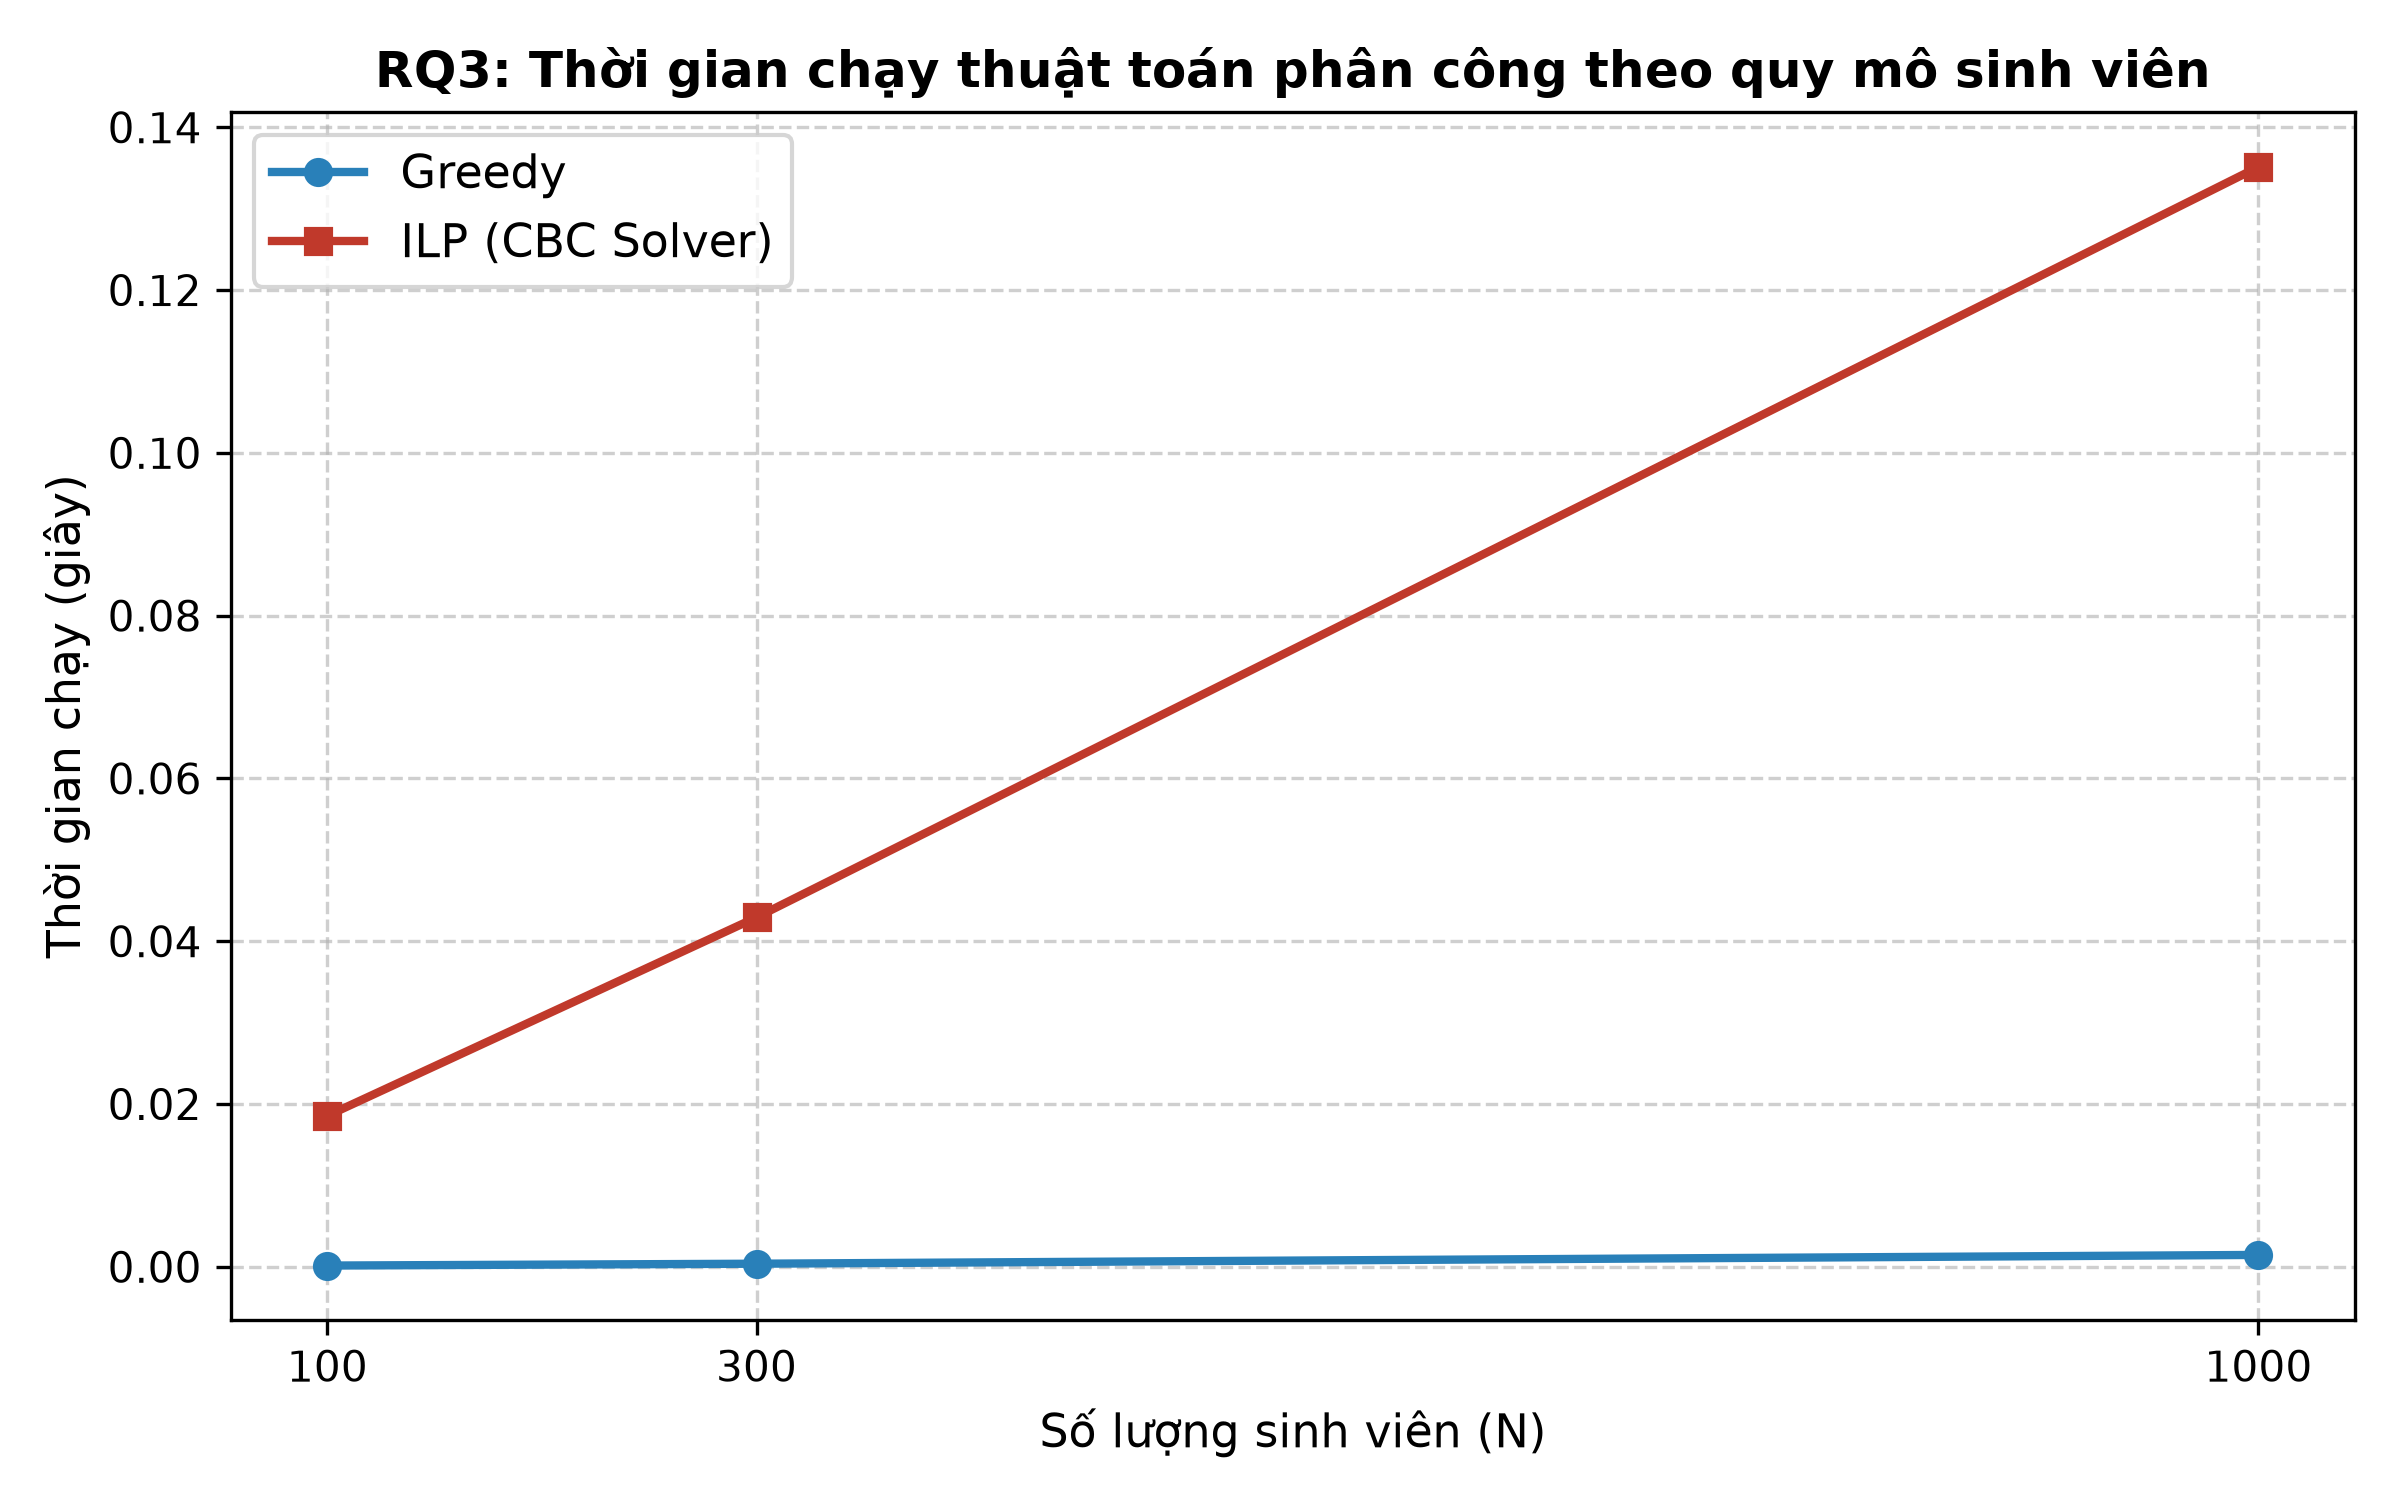
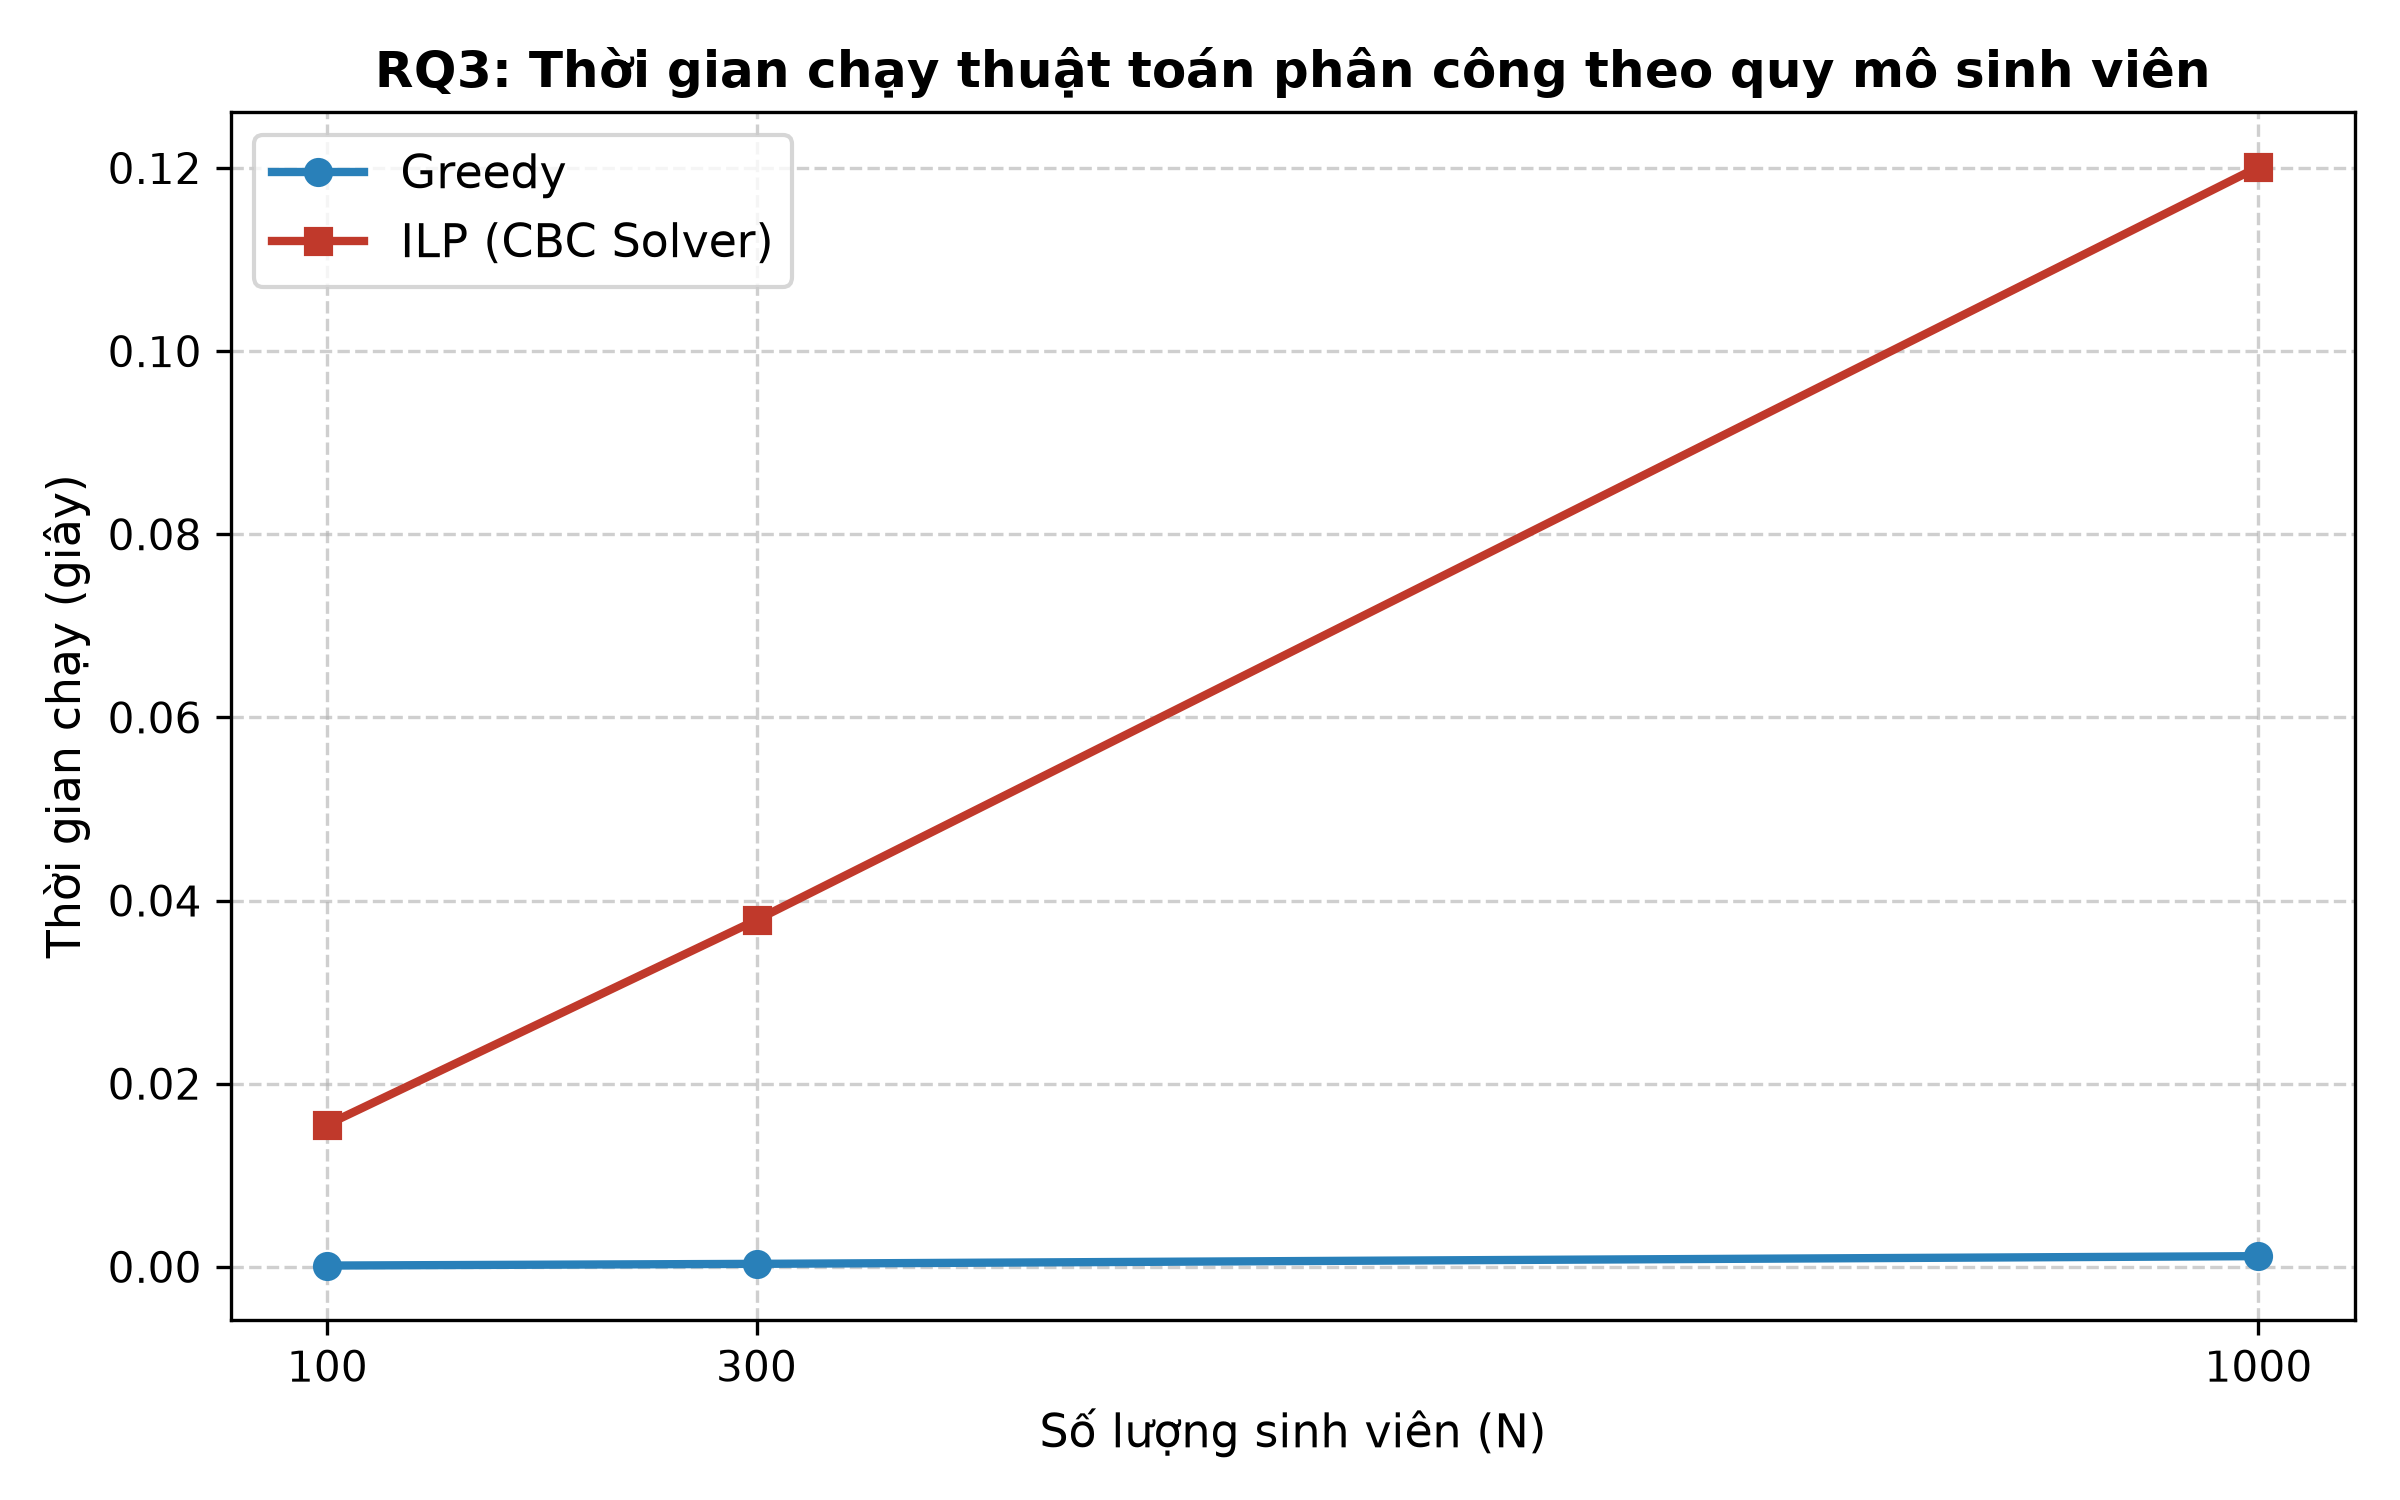
experiments: bảng RQ1 sinh từ CSV, ghi rõ độ phủ M5; RQ2 chờ đo thật

diff --git a/experiments/README.md b/experiments/README.md
@@ -47,10 +47,20 @@ python -m experiments.rq1_ablation
 
 **Bảng kết quả thực nghiệm:**
 <!-- BANG:rq1 -->
-(chạy python -m experiments.make_report)
+| Cấu hình | Hit@5 | MRR | NDCG@5 |
+| --- | --- | --- | --- |
+| Đủ M1–M5 | 0.883 | 0.827 | 0.688 |
+| Bỏ M1 (Kỹ năng) | 0.702 | 0.507 | 0.405 |
+| Bỏ M2 (Học lực) | 0.883 | 0.830 | 0.689 |
+| Bỏ M3 (Lĩnh vực) | 0.830 | 0.777 | 0.658 |
+| Bỏ M4 (Embedding) | 0.872 | 0.847 | 0.715 |
+| Bỏ M5 (LLM) | 0.883 | 0.838 | 0.702 |
+| Trọng số đều | 0.872 | 0.818 | 0.667 |
+| TF-IDF only | 0.575 | 0.398 | 0.256 |
+| Embedding only | 0.447 | 0.301 | 0.175 |
 <!-- /BANG:rq1 -->
 
-<!-- PHU:rq1 --><!-- /PHU:rq1 -->
+<!-- PHU:rq1 -->Độ phủ M5: 55/100 SV có điểm M5 thật (chạy 05/10/2026, Groq hết hạn mức ngày); đang chấm bổ sung<!-- /PHU:rq1 -->
 
 Kết quả lưu tại: `experiments/results/rq1_ablation.csv` và `experiments/results/rq1_ablation.png`.
 
@@ -84,7 +94,7 @@ python -m experiments.rq2_llm_stability --students 30 --topics-per-student 3
 
 **Bảng tổng hợp độ ổn định LLM:**
 <!-- BANG:rq2 -->
-(chạy python -m experiments.make_report)
+_Chưa có số liệu: đang đo lại bằng API thật (Groq + Ollama) ngày 06/10/2026 sau khi hạn mức Groq hồi._
 <!-- /BANG:rq2 -->
 
 > Mọi dòng trong bảng RQ2 là lượt gọi API thật. Không có số liệu mô phỏng: provider nào thiếu khoá thì bị bỏ qua, không thay bằng số giả.
@@ -125,7 +135,20 @@ python -m experiments.rq3_allocation
 
 **Bảng so sánh hiệu năng và chất lượng:**
 <!-- BANG:rq3 -->
-(chạy python -m experiments.make_report)
+| N | Cấu hình | Tỷ lệ xếp | Đạt NV1 | Thứ hạng NV TB | Điểm phù hợp TB | P10 điểm | Vi phạm | Thời gian (s) |
+| --- | --- | --- | --- | --- | --- | --- | --- | --- |
+| 100 | Greedy | 50.0% | 14.0% | 1.96 | 66.5 | 44.5 | 0 | 0.0001 |
+| 100 | ILP (Bộ 1 (Ưu tiên điểm phù hợp)) | 51.0% | 28.0% | 1.63 | 72.7 | 52.0 | 0 | 0.0167 |
+| 100 | ILP (Bộ 2 (Cân bằng mặc định)) | 51.0% | 31.0% | 1.53 | 70.5 | 47.2 | 0 | 0.0149 |
+| 100 | ILP (Bộ 3 (Ưu tiên nguyện vọng)) | 51.0% | 31.0% | 1.53 | 70.5 | 47.2 | 0 | 0.0150 |
+| 300 | Greedy | 43.0% | 15.0% | 1.96 | 64.2 | 42.1 | 0 | 0.0003 |
+| 300 | ILP (Bộ 1 (Ưu tiên điểm phù hợp)) | 43.7% | 21.0% | 1.74 | 68.8 | 46.8 | 0 | 0.0374 |
+| 300 | ILP (Bộ 2 (Cân bằng mặc định)) | 43.7% | 23.7% | 1.63 | 66.0 | 42.1 | 0 | 0.0354 |
+| 300 | ILP (Bộ 3 (Ưu tiên nguyện vọng)) | 43.7% | 23.7% | 1.62 | 65.7 | 42.1 | 0 | 0.0408 |
+| 1000 | Greedy | 37.6% | 14.6% | 1.87 | 64.7 | 42.5 | 0 | 0.0012 |
+| 1000 | ILP (Bộ 1 (Ưu tiên điểm phù hợp)) | 39.3% | 19.5% | 1.69 | 67.1 | 46.3 | 0 | 0.1212 |
+| 1000 | ILP (Bộ 2 (Cân bằng mặc định)) | 39.3% | 21.5% | 1.61 | 65.1 | 44.7 | 0 | 0.1199 |
+| 1000 | ILP (Bộ 3 (Ưu tiên nguyện vọng)) | 39.3% | 21.6% | 1.61 | 65.0 | 44.3 | 0 | 0.1192 |
 <!-- /BANG:rq3 -->
 
 **Nhận xét:**
